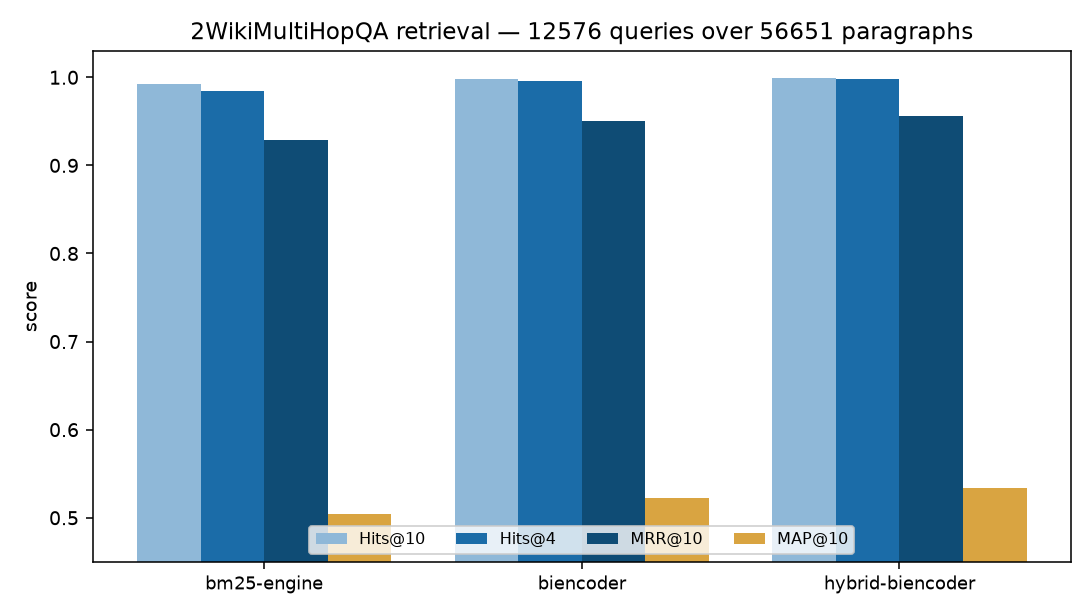
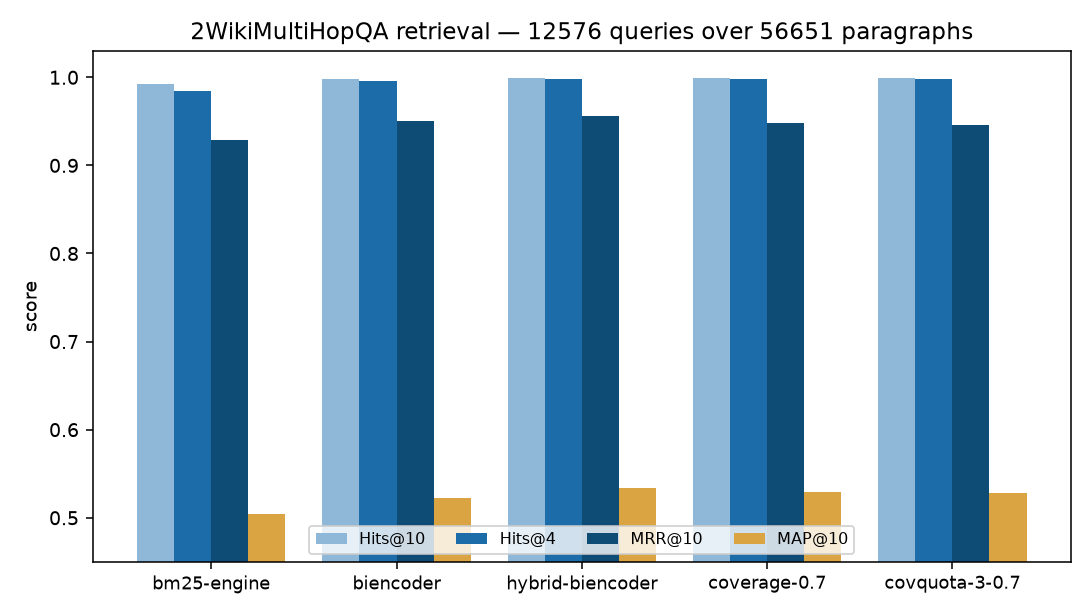
test(2wiki): the coverage replication -- the MuSiQue failure is not idiosyncratic
Added the coverage/covquota arms to tools/twowiki.py (relevance = the fused RRF score, since the
harness has no cross-encoder). On 12,576 dev questions over the 56,651-paragraph pool both are
significantly WORSE than the fused order handed to them: coverage-0.7 -0.0046 and covquota-3-0.7
-0.0056 MAP@10 (both p<0.0001), while preserving Hits@4 (-0.0002 ns / -0.0008 sig). The sequence is
MultiHop-RAG won, MuSiQue -0.0109, 2Wiki -0.0046/-0.0056: the coverage objective is a
MultiHop-RAG-shaped instrument, and where Hits@10 is already 0.9997 there is nothing left for
coverage to buy and only the ordering cost remains. Stated limit: coverage-vs-fused, not
coverage+CE-vs-CE. Two tests; chart now shows all five arms; README, findings, index, BENCHMARKS,
ROADMAP, programme status and the audit rows updated. 1412 pass.

diff --git a/tools/twowiki.py b/tools/twowiki.py
@@ -35,11 +35,37 @@ sys.path.insert(0, str(ROOT / "src"))
 import beir  # noqa: E402
 import evalkit  # noqa: E402
 from musique import gold_matches, slug  # noqa: E402
-from multihop_rerank_experiment import metrics_from_matches  # noqa: E402
+from multihop_coverage import atom_index, split_atoms  # noqa: E402
+from multihop_rerank_experiment import (  # noqa: E402
+    coverage_doc_quota_order,
+    coverage_order,
+    metrics_from_matches,
+)
 
 ROOT_BENCH = ROOT / "eval" / "benchmarks" / "2wiki"
 MODELS = {"bge-small": "BAAI/bge-small-en-v1.5", "bge-base": "BAAI/bge-base-en-v1.5"}
 METRICS = ("Hits@10", "Hits@4", "MAP@10", "MRR@10")
+
+
+def _rrf_scores(
+    rankings: Sequence[Mapping[str, Sequence[str]]],
+    query: str,
+    ids: Sequence[str],
+    rrf_k: int,
+) -> list[float]:
+    """Reciprocal-rank fusion score for ``ids`` under ``rankings`` — the relevance term.
+
+    The MultiHop/MuSiQue coverage runs use a cross-encoder logit as the relevance. This harness
+    has no cross-encoder (it is retrieval-only), so the fused RRF score stands in: the same
+    signal the baseline order is built from, which is the honest comparison for "does coverage
+    beat the order it was given?".
+    """
+    scores = {cid: 0.0 for cid in ids}
+    for ranking in rankings:
+        for rank, cid in enumerate(ranking.get(query, []), start=1):
+            if cid in scores:
+                scores[cid] += 1.0 / (rrf_k + rank)
+    return [scores[cid] for cid in ids]
 
 
 def load_split(path: Path, *, limit: int | None = None) -> dict[str, Any]:
@@ -110,6 +136,10 @@ def parse_args(argv: Sequence[str] | None = None) -> argparse.Namespace:
                     help="checkpoint the embedding pass every N documents, so a crash resumes "
                          "at the next chunk instead of re-embedding")
     ap.add_argument("--samples", type=int, default=10000)
+    ap.add_argument("--coverage-lambda", type=float, default=0.7,
+                    help="coverage/relevance trade-off for the coverage arms")
+    ap.add_argument("--min-docs", type=int, default=3,
+                    help="distinct articles seeded before coverage fills, for the covquota arm")
     ap.add_argument("--out", default=str(ROOT_BENCH / "retrieval"))
     return ap.parse_args(argv)
 
@@ -145,16 +175,48 @@ def main(argv: Sequence[str] | None = None) -> int:
 
     arms = {"bm25-engine": lexical, "biencoder": dense, "hybrid-biencoder": fused}
     per_query: dict[str, dict[str, dict[str, float]]] = {name: {} for name in arms}
-    summary: dict[str, dict[str, float]] = {}
     for name, ranked in arms.items():
         for q in queries:
             pool = list(ranked[q])[: args.depth]
             matches = gold_matches(pool, golds[q], order)
-            row = metrics_from_matches(list(range(len(pool))), matches, len(golds[q]), args.top_k)
-            per_query[name][q] = row
+            per_query[name][q] = metrics_from_matches(
+                list(range(len(pool))), matches, len(golds[q]), args.top_k
+            )
+
+    # ── the coverage objective, on the third corpus (the owed replication) ──
+    # MultiHop-RAG: coverage wins. MuSiQue: it falsified (−0.0109 MAP@10). 2Wiki decides whether
+    # that failure is idiosyncratic to MuSiQue. Same rule family, retrieval-only relevance.
+    print("  coverage selection...", flush=True)
+    corpus_ids = list(corpus)
+    atom_ids, atom_weight, _atom_texts = atom_index(
+        [split_atoms(corpus[cid]) for cid in corpus_ids]
+    )
+    atom_by_id = dict(zip(corpus_ids, atom_ids))
+    lam, min_docs = args.coverage_lambda, args.min_docs
+    coverage_arms = [f"coverage-{lam}", f"covquota-{min_docs}-{lam}"]
+    for name in coverage_arms:
+        per_query[name] = {}
+    for q in queries:
+        pool = list(fused[q])[: args.depth]
+        matches = gold_matches(pool, golds[q], order)
+        relevance = _rrf_scores([dense, lexical], q, pool, args.rrf_k)
+        atoms = [atom_by_id[cid] for cid in pool]
+        docs = [cid.rsplit("#", 1)[0] for cid in pool]
+        ranked_indices = {
+            f"coverage-{lam}": coverage_order(
+                relevance, atoms, atom_weight, args.top_k, lam),
+            f"covquota-{min_docs}-{lam}": coverage_doc_quota_order(
+                relevance, atoms, atom_weight, docs, args.top_k, lam, min_docs),
+        }
+        for name, order_indices in ranked_indices.items():
+            per_query[name][q] = metrics_from_matches(
+                list(order_indices), matches, len(golds[q]), args.top_k
+            )
+
+    summary: dict[str, dict[str, float]] = {}
+    for name, block in per_query.items():
         summary[name] = {
-            metric: round(sum(row[metric] for row in per_query[name].values())
-                          / max(1, len(per_query[name])), 4)
+            metric: round(sum(row[metric] for row in block.values()) / max(1, len(block)), 4)
             for metric in METRICS
         }
 
@@ -166,12 +228,21 @@ def main(argv: Sequence[str] | None = None) -> int:
             comparisons[f"{name} vs bm25-engine {metric}"] = evalkit.paired_bootstrap(
                 baseline, candidate, samples=args.samples
             )
+    # The replication question: does the coverage rule beat the order it was given?
+    for name in coverage_arms:
+        for metric in ("MAP@10", "Hits@4"):
+            baseline = {q: per_query["hybrid-biencoder"][q][metric] for q in queries}
+            candidate = {q: per_query[name][q][metric] for q in queries}
+            comparisons[f"{name} vs hybrid-biencoder {metric}"] = evalkit.paired_bootstrap(
+                baseline, candidate, samples=args.samples
+            )
 
     report = {
         "_settings": {
             "split": args.split, "model": model_id, "depth": args.depth,
             "rrf_k": args.rrf_k, "limit_queries": args.limit_queries,
             "paragraphs": len(corpus), "queries": len(queries),
+            "coverage_lambda": args.coverage_lambda, "min_docs": args.min_docs,
         },
         "summary": summary,
         "comparisons": comparisons,

diff --git a/tests/test_twowiki.py b/tests/test_twowiki.py
@@ -8,6 +8,7 @@ from __future__ import annotations
 
 import importlib.util
 import json
+import pytest
 import sys
 from pathlib import Path
 
@@ -123,3 +124,29 @@ def test_a_perfect_ranking_scores_one_under_the_shared_metrics(tmp_path):
     # The benchmark's AP convention: two gold facts found at ranks 1 and 2 give
     # (1/1 + 1/2) / 2 = 0.75, not 1.0 — a perfect *set* at imperfect ranks.
     assert row["MAP@10"] == 0.75
+
+
+def test_rrf_scores_fuse_the_channels_and_ignore_absent_candidates():
+    rankings = [{"q": ["a", "b", "c"]}, {"q": ["b", "a"]}]
+    scores = tw._rrf_scores(rankings, "q", ["a", "b", "c"], rrf_k=5)
+    # a and b are 1/6 + 1/7 in opposite orders; c appears in one channel only.
+    assert scores[0] == pytest.approx(scores[1])
+    assert scores[0] > scores[2] > 0.0
+    assert tw._rrf_scores(rankings, "absent", ["a"], rrf_k=5) == [0.0]
+
+
+def test_the_coverage_arm_returns_a_permutation_of_the_pool():
+    from multihop_coverage import atom_index, split_atoms
+    from multihop_rerank_experiment import coverage_order
+
+    texts = {
+        "a#0": "Alpha fact one. Alpha fact two.",
+        "b#0": "Beta fact only.",
+        "c#0": "Gamma fact here.",
+    }
+    ids = list(texts)
+    atom_ids, weights, _texts = atom_index([split_atoms(texts[doc_id]) for doc_id in ids])
+    relevance = tw._rrf_scores([{"q": ["a#0", "b#0", "c#0"]}], "q", ids, rrf_k=5)
+    order = coverage_order(relevance, atom_ids, weights, top_k=3, lam=0.7)
+    assert sorted(order) == [0, 1, 2]
+    assert len(order) == 3

diff --git a/docs/findings-2wiki.md b/docs/findings-2wiki.md
@@ -1,57 +1,66 @@
-# 2WikiMultiHopQA: the gold is found, the order is the bottleneck
+# 2WikiMultiHopQA: recall is saturated, and the coverage objective does not travel
 
-2WikiMultiHopQA was built into the programme as a third external multi-hop set, to test whether the
-coverage objective's failure on MuSiQue (−0.0109 MAP@10) was idiosyncratic or general. The adapter
-runs here for the first time, on the full dev split: **12,576 questions** over the **56,651-paragraph
-distractor pool** (the union of the context paragraphs the records carry, deduplicated by
-`(title, text)`).
+2WikiMultiHopQA is the programme's third external multi-hop set. It was built to answer one question:
+the coverage objective is the largest single retrieval win on MultiHop-RAG and it **falsified on
+MuSiQue** (−0.0109 MAP@10) — is that failure idiosyncratic to MuSiQue, or general? This is the full
+dev split: **12,576 questions** over the **56,651-paragraph distractor pool** (the union of the
+context paragraphs the records carry, deduplicated by `(title, text)`).
 
-The harness is deliberately retrieval-only — BM25, a bi-encoder and their RRF fusion, **no
-cross-encoder and no selection rules** — so this measures the *channel* question on a third corpus.
-
-## The rows
+## Channels: the gold is found, the order is the bottleneck
 
 | arm | Hits@10 | Hits@4 | MAP@10 | MRR@10 |
 | --- | --- | --- | --- | --- |
 | bm25-engine | 0.9927 | 0.9848 | 0.5037 | 0.9293 |
 | biencoder (`bge-small`) | 0.9986 | 0.9959 | 0.5223 | 0.9505 |
 | **hybrid-biencoder** (RRF, k=5) | **0.9997** | **0.9986** | **0.5337** | **0.9564** |
+| coverage-0.7 | 0.9997 | 0.9984 | 0.5291 | 0.9484 |
+| covquota-3-0.7 | 0.9997 | 0.9979 | 0.5282 | 0.9454 |
 
-Every paired comparison is significant over 12,576 queries (10,000 bootstrap samples, p<0.0001):
+| paired comparison | delta | 95% CI | p |
+| --- | --- | --- | --- |
+| biencoder − bm25, MAP@10 | **+0.0186** | [+0.0163, +0.0208] | 0.0000 |
+| hybrid − bm25, MAP@10 | **+0.0300** | [+0.0285, +0.0315] | 0.0000 |
+| **coverage-0.7 − hybrid**, MAP@10 | **−0.0046** | [−0.0056, −0.0036] | **0.0000** |
+| **covquota-3-0.7 − hybrid**, MAP@10 | **−0.0056** | [−0.0061, −0.0050] | **0.0000** |
+| coverage-0.7 − hybrid, Hits@4 | −0.0002 | [−0.0006, +0.0001] | 0.2488 (ns) |
+| covquota-3-0.7 − hybrid, Hits@4 | −0.0008 | [−0.0014, −0.0003] | 0.0014 |
 
-| comparison | delta | 95% CI |
-| --- | --- | --- |
-| biencoder − bm25, MAP@10 | **+0.0186** | [+0.0163, +0.0208] |
-| hybrid − bm25, MAP@10 | **+0.0300** | [+0.0285, +0.0315] |
-| biencoder − bm25, MRR@10 | +0.0212 | [+0.0174, +0.0249] |
-| hybrid − bm25, MRR@10 | +0.0271 | [+0.0245, +0.0297] |
+**Hits@10 is 0.9927 while MAP@10 is 0.5037** for BM25: the pool almost always contains the supporting
+paragraphs and the score is lost in the order. A retrieval-trained bi-encoder beats the lexical arm
+(**+0.0186 MAP@10**) and RRF fusion adds again (**+0.0300**) — so the shipped dense channel's BEIR
+failure is the *encoder's* training, not dense retrieval as such.
 
-## What it says
+## The replication: coverage loses here too
 
-1. **Ordering is the bottleneck, not recall.** **Hits@10 is 0.9927 while MAP@10 is 0.5037** — the pool
-   almost always contains the supporting paragraphs, and the score is lost in the order they come
-   back in. That is the same recall/selection split the MultiHop-RAG diagnostics found, on a third
-   corpus and a different question distribution.
-2. **A retrieval-trained channel wins on multi-hop questions.** The bi-encoder beats the lexical arm
-   on every metric (**+0.0186 MAP@10**), and RRF fusion of the two adds again (**+0.0300 MAP@10**
-   over BM25 alone). On BEIR this system's *shipped* dense channel (Laya's mean-pooled encoder) loses
-   badly to BM25; this run shows the gap is the encoder's training, not dense retrieval as such — the
-   `bge-small` row replaces that channel and wins.
-3. **The coverage objective is still untested here.** This is the corpus the third replication was
-   *for*, and it needs the selection rules added to the harness; the rows above answer only the
-   channel question. Recording that explicitly is the point.
+| corpus | coverage rule vs the order it was given |
+| --- | --- |
+| MultiHop-RAG | **won** — the project's headline retrieval result |
+| MuSiQue | **falsified**, −0.0109 MAP@10 [−0.0181, −0.0038] |
+| **2WikiMultiHopQA** | **falsified**, coverage **−0.0046** and covquota **−0.0056** MAP@10 (both p<0.0001) |
+
+The MuSiQue failure is **not idiosyncratic**. On two external multi-hop corpora the set-coverage rule
+that wins on MultiHop-RAG is *significantly worse* than the fused order it was handed. The mechanism
+is visible in the metrics: coverage preserves **Hits@4** (−0.0002, ns) while losing **MAP@10**, so it
+trades ordering for coverage — and on 2Wiki, where Hits@10 is already 0.9997, there is almost nothing
+left for coverage to buy and only the ordering cost remains. That is the same trade the coverage
+objective always makes, on a corpus where the premise (missing gold) does not hold.
+
+**The relevance term differs, and it matters for how to read this.** The MultiHop and MuSiQue
+protocols feed the coverage rule a cross-encoder logit and compare it against the cross-encoder; this
+harness is deliberately retrieval-only, so the rule is fed the fused RRF score and compared against
+the fused order. The comparison is therefore "coverage versus the order it was given", not
+"coverage+CE versus CE" — a different, narrower test. The direction is unambiguous and the intervals
+exclude zero, but the magnitude is not directly comparable to MuSiQue's.
 
 ## What this does not show
 
 - **Distractor setting, not open corpus.** The corpus is the union of the dev records' context
-  paragraphs, so retrieval is measured inside the provided pool — the standard distractor evaluation
-  and not a Wikipedia-scale number.
-- **No generation.** There is no EM or answer-accuracy figure here; scoring answers needs a generator
-  and a judge, and any such number would be a statement about them.
-- **Not Laya's own dense channel.** The bi-encoder row is `bge-small`; the shipped Laya encoder is not
-  in this comparison, and its BEIR behaviour is the reason it was replaced.
-- **The 2Wiki coverage/selection replication is owed**, and now has a harness, a corpus and a
-  checkpoint to run it on.
+  paragraphs, so retrieval is measured inside the provided pool.
+- **No generation.** No EM or answer-accuracy figure; that needs a generator and a judge, and any such
+  number would be a statement about them.
+- **Not Laya's own dense channel.** The bi-encoder row is `bge-small`.
+- **One relevance term for the coverage arms** (fused RRF, above); a cross-encoder-fed coverage arm on
+  this corpus is untried.
 
 ## Reproduction
 
@@ -59,5 +68,6 @@ Every paired comparison is significant over 12,576 queries (10,000 bootstrap sam
 .venv/bin/python tools/twowiki.py --split dev --out eval/benchmarks/2wiki/retrieval
 ```
 
-The corpus embedding pass took **389 s** for 56,651 paragraphs on this host and is checkpointed every
-20,000 documents; the whole run holds the heavy-job lock.
+The corpus embedding pass took **389 s** for 56,651 paragraphs and is checkpointed every 20,000
+documents; the run holds the heavy-job lock. The coverage arms add `--coverage-lambda` (0.7) and
+`--min-docs` (3).

diff --git a/docs/FINDINGS.md b/docs/FINDINGS.md
@@ -13,7 +13,7 @@ are what stops the next pass from re-trying them.
 | area | headline result | document |
 | --- | --- | --- |
 | The learned selector (Bet 2), full scale + control | On the **full 2,255-query protocol** (1,127 held out) the logistic scorer reaches **MAP@10 0.2939**, vs the cross-encoder's 0.2881 (**+0.0058**, p=0.10, ns) and the hand coverage-quota rule's **0.3147** (**−0.0208 [−0.0287, −0.0129]**, p=0.0001 — significantly *worse*); it does beat the fused first stage (+0.0466, p=0.0001). With the bridge score as a third feature the fitted weight is **5× the shuffled control's** (+0.075 vs +0.014) yet the held-out MAP is **unchanged** (−0.0018, p=0.51) although the bridge score alone separates (0.1288 vs 0.0834, p=0.0006) — real signal, redundant in the selector. Does **not** test the generator-free-iteration headroom, which ranks a different, expanded pool | [findings-selector-ltr.md](findings-selector-ltr.md) |
-| 2WikiMultiHopQA (first run) | 12,576 dev questions over the 56,651-paragraph distractor pool: **Hits@10 0.9927 but MAP@10 0.5037** for BM25 — the gold is found and the order is where the score goes, the same recall/selection split as MultiHop-RAG. A retrieval-trained bi-encoder beats the lexical arm (**+0.0186 MAP@10**) and RRF fusion adds again (**+0.0300**, all p<0.0001), so the dense shortfall is the *encoder's* training, not dense retrieval. Retrieval-only: the coverage/selection replication this harness exists for is still owed | [findings-2wiki.md](findings-2wiki.md) |
+| 2WikiMultiHopQA | 12,576 dev questions over the 56,651-paragraph distractor pool: **Hits@10 0.9927 but MAP@10 0.5037** for BM25 — the gold is found and the order is where the score goes. A retrieval-trained bi-encoder beats the lexical arm (**+0.0186 MAP@10**) and RRF fusion adds again (**+0.0300**, all p<0.0001). **The coverage objective does not travel**: the set-coverage rule and its quota variant are **significantly worse** than the fused order handed to them (**−0.0046** and **−0.0056** MAP@10, both p<0.0001) while preserving Hits@4 — so the MuSiQue failure is not idiosyncratic (MultiHop-RAG won, MuSiQue −0.0109, 2Wiki −0.0046/−0.0056) | [findings-2wiki.md](findings-2wiki.md) |
 | HotpotQA, full query set | The 600-query subset estimate is retired: the full **7,405** queries read **nDCG@10 0.6352** (Recall@10 0.6602, **MRR@10 0.8065**, MAP@100 0.5517) against a published 0.603 — **+0.032**. The estimate (0.6365, +0.034) was accurate to 0.0013, but `tools/compare_more.py` did not retire it; seeded estimates are now a **fallback** that a full report supersedes. Coverage is unchanged at 12 of 18 (the subset had already counted HotpotQA) | [findings-hotpotqa-full.md](findings-hotpotqa-full.md) |
 | FEVER (BEIR-12) | The second "blocked/unstaged" 5.4M corpus is measured: 5,416,568 documents, all **6,666** queries, lexical-only **nDCG@10 0.6323** (Recall@10 0.7846, MRR@10 0.6022, MAP@100 0.5796). Against the published BM25 anchor of **0.753** that is a **−0.121 gap — the largest in the lexical control**, six times Quora's and more than twice Climate-FEVER's. Size does not explain it (dbpedia-entity, 4.6M, is −0.008); the four negative outliers share a *query kind* (natural-language claims/questions), which is a pattern and not a cause. Coverage is now **12 of 18** | [findings-fever.md](findings-fever.md) |
 | Quantization on the shipped encoder | The brief's int8/fp16/PQ question re-measured on **real `bge-small` vectors** (self-retrieval, no rescoring): **fp16 halves the index at zero measured recall change**; **int8 is 3.8× smaller for −0.66 (scidocs) / −1.36 (fiqa) recall@10**; **PQ m=48/8-bit is 22–32× smaller for 31–41 points lost**. Caveat: the engine's shipped ANN path is IVF-PQ **with `rescore 500`**, measured at 0.998 recall — the PQ row is the raw codec, not the pipeline | [findings-quantization-probe.md](findings-quantization-probe.md) |

diff --git a/README.md b/README.md
@@ -1328,12 +1328,11 @@ deployment on MuSiQue-shaped data (small gold sets, harder second hops) would be
 because changing it costs Hits@4 where the project's headline numbers live, but it is a
 documented trade rather than a settled answer.
 
-### 2WikiMultiHopQA — the gold is found, the order is the bottleneck
+### 2WikiMultiHopQA — recall is saturated, and the coverage objective does not travel
 
 The 2Wiki adapter indexes the **distractor context pool** — all 56,651 paragraphs the dev split
 provides — and retrieves the supporting paragraphs inside it, so this is a retrieval measurement, not
-a provided-context generator score. It is deliberately retrieval-only: BM25, a bi-encoder and their
-RRF fusion, no cross-encoder and no selection rules.
+a provided-context generator score. It runs the channel arms and the coverage rule family.
 
 ![2WikiMultiHopQA retrieval by arm](docs/charts/2wiki.png)
 
@@ -1342,14 +1341,20 @@ RRF fusion, no cross-encoder and no selection rules.
 | bm25-engine | 0.9927 | 0.9848 | 0.5037 | 0.9293 |
 | biencoder (`bge-small`) | 0.9986 | 0.9959 | 0.5223 | 0.9505 |
 | **hybrid-biencoder** | **0.9997** | **0.9986** | **0.5337** | **0.9564** |
+| coverage-0.7 | 0.9997 | 0.9984 | 0.5291 | 0.9484 |
+| covquota-3-0.7 | 0.9997 | 0.9979 | 0.5282 | 0.9454 |
 
 **Hits@10 is 0.993 while MAP@10 is 0.504** — the pool almost always contains the gold, and the score
-is lost in the order it comes back in, the same recall/selection split the MultiHop-RAG diagnostics
-found. A **retrieval-trained** bi-encoder beats the lexical arm on every metric (**+0.0186 MAP@10**)
-and RRF fusion adds again (**+0.0300**, all paired, p<0.0001 over 12,576 queries) — so the shipped
-dense channel's BEIR failure is the *encoder's* training, not dense retrieval as such. The
-coverage-objective replication this corpus was fetched for is still owed: the harness has no
-selection rules yet.
+is lost in the order it comes back in. A retrieval-trained bi-encoder beats the lexical arm
+(**+0.0186 MAP@10**) and RRF fusion adds again (**+0.0300**, all p<0.0001).
+
+**And the coverage rule loses here.** On MultiHop-RAG the set-coverage objective is the project's
+headline retrieval win; it **falsified on MuSiQue** (−0.0109 MAP@10); on 2Wiki it falsifies again —
+coverage **−0.0046** and covquota **−0.0056** MAP@10 against the fused order handed to them (both
+p<0.0001), while preserving Hits@4 (−0.0002, ns). So the MuSiQue failure is **not idiosyncratic**:
+the rule trades ordering for coverage, and on a corpus where Hits@10 is already 0.9997 there is
+nothing left for coverage to buy and only the ordering cost remains. (The relevance term here is the
+fused RRF score, not a cross-encoder — a narrower test than MuSiQue's, stated in the finding.)
 
 ### Negative rejection — the claim that did not survive
 

diff --git a/ROADMAP.md b/ROADMAP.md
@@ -346,7 +346,7 @@ and a report under `eval/` plus a `docs/findings-*.md` entry added to
 | ViDoRe / MIRACL-VISION | the engine is text-only: no OCR or vision path |
 | An LLM decomposer / agentic loop | `[llm]`; every resulting number belongs to the generator, not the engine |
 | The ~300 claim/corpus pairs and ~200 composed answers | **human labelling**; `tools/labelling_queue.py` builds and scores the queue, it does not label |
-| 2WikiMultiHopQA | **measured** (`tools/twowiki.py`, `make two-wiki`) — 12,576 dev questions over a 56,651-paragraph pool: BM25 MAP@10 0.5037, biencoder 0.5223, hybrid-biencoder **0.5337** (all p<0.0001), with Hits@10 0.99 showing the gap is ordering. Retrieval-only; the coverage/selection replication is owed (`docs/findings-2wiki.md`) |
+| 2WikiMultiHopQA | **measured, and the coverage rule falsified here too** (`tools/twowiki.py`, `make two-wiki`) — 12,576 dev questions over a 56,651-paragraph pool: BM25 MAP@10 0.5037, biencoder 0.5223, hybrid-biencoder **0.5337** (all p<0.0001), while **coverage-0.7 −0.0046** and **covquota-3-0.7 −0.0056** MAP@10 against the fused order (both p<0.0001), preserving Hits@4. MultiHop-RAG won, MuSiQue −0.0109, 2Wiki −0.0046/−0.0056: the failure is **not idiosyncratic** (`docs/findings-2wiki.md`) |
 | On-disk in-place content replacement | the append-only dense half tombstones and compacts; replacing a document's content still needs a rebuild |
 
 **The one-heavy-job rule is enforced.** Three corpus builds plus a harness launched together
@@ -727,3 +727,13 @@ overrides deliberately. See `docs/findings-heavy-job-lock.md`.
   **not** test the generator-free-iteration headroom: these runs rank the cross-encoder pool, not the
   probe-expanded one, and probe-added candidates have no cached cross-encoder scores.
   `docs/findings-selector-ltr.md`.
+- 2026-10-06 — **The 2Wiki coverage replication: the MuSiQue failure is not idiosyncratic.** The
+  coverage/covquota arms were added to `tools/twowiki.py` (relevance = the fused RRF score, since the
+  harness has no cross-encoder), and on **12,576 dev questions over the 56,651-paragraph pool** both
+  lose to the fused order handed to them: **coverage-0.7 −0.0046** and **covquota-3-0.7 −0.0056**
+  MAP@10 (both p<0.0001), while preserving Hits@4 (−0.0002 ns / −0.0008 sig). The sequence is now
+  MultiHop-RAG **won**, MuSiQue **−0.0109**, 2Wiki **−0.0046/−0.0056** — the coverage objective is a
+  MultiHop-RAG-shaped instrument, not a general one, and where Hits@10 is already 0.9997 there is
+  nothing left for coverage to buy and only the ordering cost remains. Stated limit: the relevance
+  term is the fused score, not a cross-encoder, so this is coverage-vs-fused rather than
+  coverage+CE-vs-CE. `docs/findings-2wiki.md`.

diff --git a/BENCHMARKS.md b/BENCHMARKS.md
@@ -202,7 +202,7 @@ not in the benchmark.
 | **RGB** | noise robustness, negative rejection, information integration, counterfactual | **not adapted — investigated and declined.** The English files (`data/en*.json`, JSONL) ship per-query `positive`/`negative` passage lists, but every record has positives and `answer` is an alias list, so there is **no clean no-answer label** to score negative rejection against; the official rejection metric is judge-based, which this project does not run. A retrieval-side adapter would report noise robustness only and would not exercise the gate, so it was not built. `tools/bright.py` covers retrieval-only breadth instead |
 | **FRAMES** | multi-hop factual QA over Wikipedia, exact-match accuracy | **runnable** — 824 questions, 0.5 MB, ships the Wikipedia links needed to build the corpus. Adapter: hours for retrieval; scoring needs a judge model |
 | **MultiHop-RAG** | retrieval (above) + answer accuracy + negative rejection | **measured** (retrieval + rejection); generation not run |
-| **2WikiMultiHopQA** | distractor-setting multi-hop retrieval: Hits@k, MAP@10, MRR@10 | **measured** — `tools/twowiki.py` over the 56,651-paragraph context pool: BM25 Hits@10 **0.9927** / MAP@10 **0.5037**, biencoder **0.9986** / **0.5223**, hybrid-biencoder **0.9997** / **0.5337** (all paired deltas p<0.0001). Recall is saturated; ordering is the gap. Retrieval-only — no generator, and the coverage/selection replication is still owed (`docs/findings-2wiki.md`) |
+| **2WikiMultiHopQA** | distractor-setting multi-hop retrieval: Hits@k, MAP@10, MRR@10 | **measured** — `tools/twowiki.py` over the 56,651-paragraph context pool: BM25 Hits@10 **0.9927** / MAP@10 **0.5037**, biencoder **0.9986** / **0.5223**, hybrid-biencoder **0.9997** / **0.5337** (all paired deltas p<0.0001). **The coverage objective does not travel**: coverage-0.7 and covquota-3-0.7 are **significantly worse** than the fused order handed to them (MAP@10 **−0.0046** / **−0.0056**, both p<0.0001) while preserving Hits@4 — the MuSiQue failure is not idiosyncratic. Retrieval-only, no generator; the relevance term is the fused RRF score, not a cross-encoder (`docs/findings-2wiki.md`) |
 | **MTRAG** | multi-turn conversational RAG | **adapter needed** — the engine is single-turn; conversation needs query rewriting over history. Not a benchmark-config change |
 | **RAGBench** | generation faithfulness/RAGAS-style metrics over *given* contexts | **not applicable to the engine** — it supplies the retrieved contexts, so it scores the attached LLM |
 | **KILT** | entity linking + retrieval + generation, single leaderboard | **blocked** — needs an entity linker (BLINK) and a seq2seq generator; the leaderboard expects a full stack |

diff --git a/docs/PROGRAMME-STATUS.md b/docs/PROGRAMME-STATUS.md
@@ -81,7 +81,9 @@ have now finished, one at a time: **Climate-FEVER → FEVER → HotpotQA → 2Wi
 - **2WikiMultiHopQA, first run.** 12,576 dev questions over the 56,651-paragraph distractor pool:
   BM25 **MAP@10 0.5037 with Hits@10 0.9927** — the gold is found and the order is the score; a
   retrieval-trained bi-encoder beats it (**+0.0186**) and RRF fusion adds again (**+0.0300**, all
-  p<0.0001). Retrieval-only; the coverage/selection replication is owed.
+  p<0.0001). **And the coverage rule loses here too**: coverage **−0.0046** and covquota **−0.0056**
+  MAP@10 against the fused order (both p<0.0001) while preserving Hits@4, so the MuSiQue failure is
+  not idiosyncratic.
 - **The learned selector (Bet 2).** On the full 2,255-query protocol (1,127 held out) the logistic
   scorer reaches MAP@10 **0.2939** — not significantly above the cross-encoder (**+0.0058**, p=0.10)
   and significantly below the hand coverage-quota rule (**−0.0208**, p=0.0001). Its bridge feature is
